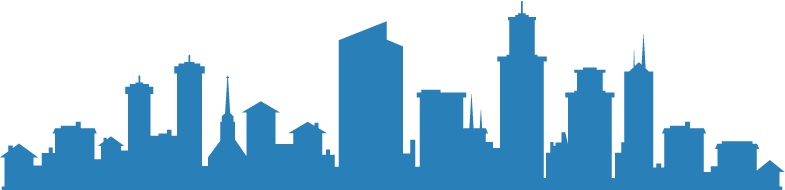
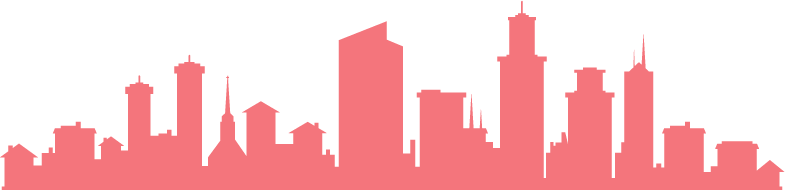
new colour scheme

diff --git a/app/assets/stylesheets/_schedule.scss b/app/assets/stylesheets/_schedule.scss
@@ -1,6 +1,6 @@
 #schedule {
   height: auto;
-  background-color: white;
+  background-color: $denim;
   text-align:center;
   overflow:hidden;
   color: white;
@@ -9,7 +9,7 @@
 
 #schedule h1::after {
   content: "";
-  background-color: #456990;
+  background-color: white;
   display: block;
   width: 158px;
   height: 3px;
@@ -23,7 +23,8 @@
 .schedule-title {
   opacity: 0;
   transform: translateY(-200px);
-  color: #456990;
+  // color: #456990;
+  color: white;
 }
 
 .appear-title {
@@ -33,7 +34,7 @@
 }
 
 .timeline ul {
-  background-color: white;
+  background-color: $denim;
 }
 
 .timeline-left, .timeline-right {
@@ -46,7 +47,7 @@
   width: 6px;
   margin: 0 auto;
   padding-top: 20px;
-  background: #456990;
+  background: rgba(255, 255, 255, 0.5);
 }
 
 .timeline ul li::after {
@@ -66,17 +67,17 @@
   bottom: 0;
   width: 400px;
   padding: 15px;
-  background: #F45B69;
+  background: rgba(255, 255, 255, 0.5);
 }
-
-.timeline ul li div::before {
-  content: '';
-  position: absolute;
-  bottom: 7px;
-  width: 0;
-  height: 0;
-  border-style: solid;
-}
+//
+// .timeline ul li div::before {
+//   content: '';
+//   position: absolute;
+//   bottom: 7px;
+//   width: 0;
+//   height: 0;
+//   border-style: solid;
+// }
 
 .timeline img {
   width: 100px;
@@ -105,9 +106,15 @@
 }
 
 .timeline-left::before {
-  left: -15px;
+  content: '';
+  position: absolute;
+  bottom: 7px;
+  width: 0;
+  height: 0;
+  border-style: solid;
+  left: -16px;
   border-width: 8px 16px 8px 0;
-  border-color: transparent #F45B69 transparent transparent;
+  border-color: transparent rgba(255, 255, 255, 0.5) transparent transparent;
 }
 
 .timeline-right {
@@ -116,9 +123,15 @@
 }
 
 .timeline-right::before {
-  right: -15px;
+  content: '';
+  position: absolute;
+  bottom: 7px;
+  width: 0;
+  height: 0;
+  border-style: solid;
+  right: -16px;
   border-width: 8px 0 8px 16px;
-  border-color: transparent transparent transparent #F45B69;
+  border-color: transparent transparent transparent rgba(255, 255, 255, 0.5);
 }
 
 
@@ -131,7 +144,7 @@
 }
 
 .timeline ul li.in-view::after {
-  background: #F45B69;
+  background: white;
 }
 
 .timeline ul li div {
@@ -181,6 +194,6 @@
   .timeline-right::before {
     left: -15px;
     border-width: 8px 16px 8px 0;
-    border-color: transparent #F45B69 transparent transparent;
+    border-color: transparent rgba(255, 255, 255, 0.5) transparent transparent;
   }
 }

diff --git a/app/assets/stylesheets/_speakers.scss b/app/assets/stylesheets/_speakers.scss
@@ -1,16 +1,16 @@
 #speakers {
   height: auto;
-  background-color:$denim;
+  background-color: $froly;
   text-align:center;
   overflow:hidden;
-  color: #CFF6FE;
+  color: white;
   padding-bottom: 5em;
   z-index: 1;
 }
 
 #speakers h1::after {
   content: "";
-  background-color: #CFF6FE;
+  background-color: white;
   opacity: 0.5;
   display: block;
   width: 158px;
@@ -48,8 +48,8 @@
     transition: -webkit-transform 0.5s;
     transition: transform 0.5s;
     border-radius: 5px;
-    height:20vw;
-    width:20vw;
+    height:18vw;
+    width:18vw;
   }
 
 }
@@ -73,14 +73,14 @@
   -webkit-transition: all 0.5s;
   transition: all 0.5s;
   background-color: white;
-  height: 20vw;
-  width: 20vw;
+  height: 18vw;
+  width: 18vw;
   position: absolute;
   z-index: 500;
-  left: 2vw;
+  left: 3vw;
   border-radius: 5px;
   opacity: 0;
-  color: $denim;
+  color: #F65966;
   line-height: 1.6;
   font-size: 1.1vw;
 }

diff --git a/app/assets/stylesheets/_about.scss b/app/assets/stylesheets/_about.scss
@@ -5,7 +5,8 @@
 #about {
   height: auto;
   background-color: $caribbean-green;
-  color: #DDFDE0;
+  // color: #DDFDE0;
+  color: white;
   text-align:center;
   padding-bottom: 80px;
   overflow:hidden;
@@ -14,23 +15,23 @@
 #location {
   height: auto;
   background-color: white;
-  color: $denim;
+  color: #F65966;
   text-align:center;
   overflow:hidden;
 }
 
 .section-title {
   font-size: 2em;
-  padding-top:1.5em;
-  padding-bottom:2.5em;
+  padding-top:1.8em;
+  padding-bottom:2.8em;
 }
 
 #location h1::after {
   content: "";
-  background-color: $denim;
+  background-color: #F4757C;
   opacity: 0.5;
   display: block;
-  width: 158px;
+  width: 180px;
   height: 3px;
   top: 20px;
   position: relative;
@@ -123,6 +124,8 @@
   transform: translateX(200px);
   vertical-align: top;
   text-align: left;
+  line-height: 1.5;
+
 }
 
 .appear-content {

diff --git a/app/assets/stylesheets/_sponsors.scss b/app/assets/stylesheets/_sponsors.scss
@@ -1,6 +1,6 @@
 #sponsors {
   height: auto;
-  background-color: $california;
+  background-color: white;
   color:white;
   text-align:center;
   overflow:hidden;
@@ -13,7 +13,7 @@
 
   .sponsors-img {
     height:auto;
-    width:15em;
+    width:8em;
   }
 
   .sponsors-img:hover {
@@ -31,8 +31,7 @@
   }
 
   #panda {
-    width:13em;
-    padding-bottom:1.5em;
+    width:8em;
   }
 
 }

diff --git a/app/assets/javascripts/countdown.js b/app/assets/javascripts/countdown.js
@@ -29,7 +29,7 @@ $(document).ready(function() {
         gauge: {
           thickness: .14,
           bgColor: "rgba(255,255,255,0.2)",
-          fgColor: "#8e44ad"
+          fgColor: "#F65966"
         },
         textCSS: 'font-size:25px; font-weight:100; color:#fff;'
       },

diff --git a/app/assets/stylesheets/_variables.scss b/app/assets/stylesheets/_variables.scss
@@ -3,3 +3,6 @@ $vivid-violet: #8e44ad;
 $denim: #2980b9;
 $caribbean-green: #1abc9c;
 $baby-blue: #00A6DA;
+
+// rose-pink
+$froly: #F4757C;
